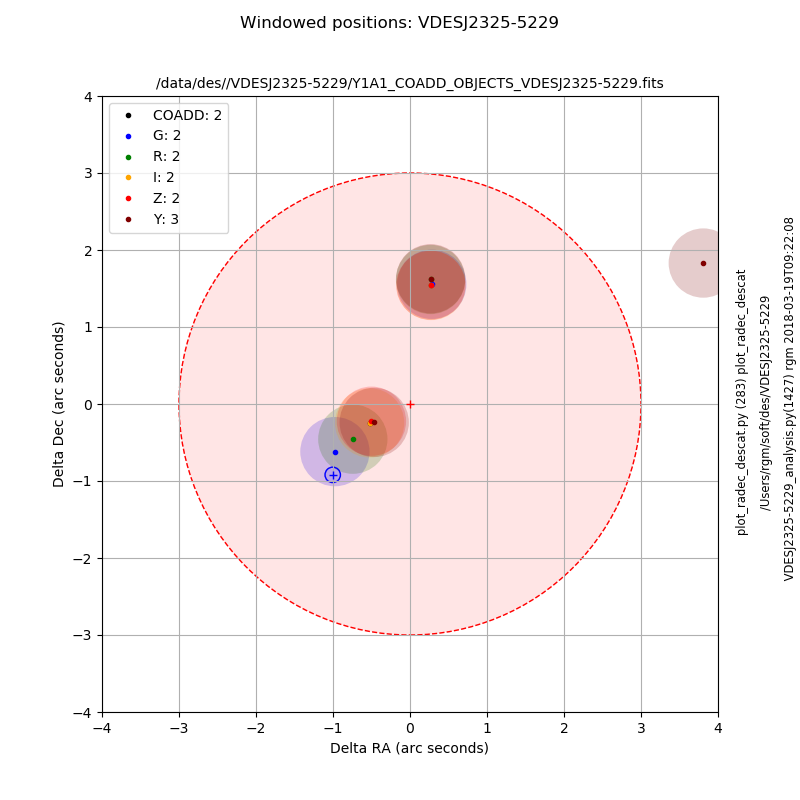
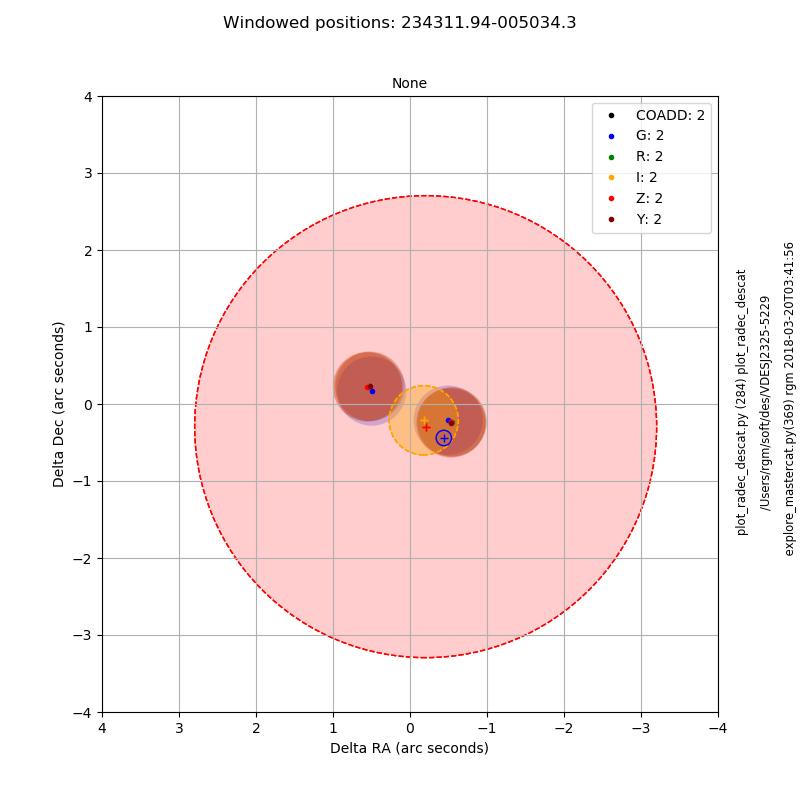
compute average RA, Dec for the DES source and use for the plot centre instead of the mastercat position 	modified:   VDESJ2325-5229_COADD_radec.png 	modified:   explore_mastercat.py 	modified:   plot_radec_descat.py 	modified:   plot_radec_gaiacat.py

diff --git a/VDESJ2325-5229/explore_mastercat.py b/VDESJ2325-5229/explore_mastercat.py
@@ -48,6 +48,7 @@ from librgm.xmatch import xmatch_selfcheck
 
 
 from plot_radec_descat import *
+from plot_radec_vhscat import *
 from plot_radec_wisecat import *
 from plot_radec_gaiacat import *
 
@@ -98,6 +99,14 @@ def getargs():
     parser.set_defaults(wise=False)
     parser.add_argument("--wise", action='store_true',
         help="wise overplot option")
+
+    parser.add_argument("--invert_xaxis", action='store_true',
+                        default=False,
+                        help="invert x-axis")
+
+    parser.add_argument("--invert_yaxis", action='store_true',
+                        default=False,
+                        help="invert y-axis")
 
     parser.set_defaults(cutout=False)
     parser.add_argument("--cutout", action='store_true',
@@ -255,7 +264,7 @@ if __name__ == "__main__":
     descat.info('stats')
 
     wisedata = descat
-    vhsdata = None
+    vhsdata = descat
 
     path_gaiacat = config.get('MASTERCAT', 'path_gaiacat')
     filename_gaiacat = config.get('MASTERCAT', 'filename_gaiacat')
@@ -270,6 +279,9 @@ if __name__ == "__main__":
     colnames_radec1 = ['RA', 'DEC']
     colnames_radec2 = ['RA', 'Dec']
 
+    # I do not use the xmatch at the moment since I just trawl through the
+    # mastercat sources and descat sources outside the regions get ignored
+    # at the plot stage
     if debug:
         help(xmatch_cat)
     print("Elapsed time %.3f seconds" % (time.time() - t0))
@@ -289,8 +301,13 @@ if __name__ == "__main__":
     numpoints = len(dr)
     print(len(dr), dr_median, dr_mad_std)
 
+    itest = np.unique(idxmatch)
+    print('Unique idxmatch:', len(itest), len(idxmatch))
+
     itest = np.unique(table1['row_id'])
-    print(len(itest))
+    print('Unique row_id:', len(itest))
+
+
     for icount, id in enumerate(itest):
         print(icount + 1, id,
               mastercat['RA'][id], mastercat['Dec'][id])
@@ -303,6 +320,14 @@ if __name__ == "__main__":
                     unit=u.deg).to_string(unit=u.degree,
                     precision=precision, sep=' ',
                     pad=True, alwayssign=True))
+
+        imatch = (idxmatch == id)
+        print(icount + 1, id, len(imatch), len(descat[imatch]))
+        print(np.average(descat['RA'][imatch]))
+        print(np.average(descat['DEC'][imatch]))
+
+    if debug:
+        key = raw_input("Enter any key to continue: ")
 
 
     showplot = True
@@ -321,8 +346,16 @@ if __name__ == "__main__":
                            precision=1, sep='',
                            pad=True, alwayssign=True)
 
-        # keep plt handle for overlays
+        imatch = (idxmatch == id)
+        print(icount + 1, id, len(imatch), len(descat[imatch]))
+
+        RA_average = np.average(descat['RA'][imatch])
+        DEC_average = np.average(descat['DEC'][imatch])
+
         radec_centre = (mastercat['RA'][id], mastercat['Dec'][id])
+        radec_centre = (RA_average, DEC_average)
+
+        # Note we keep plt handle for overlays; this could cause problems
         plt = plot_radec_descat(data=data,
                                 radius=0.45,
                                 source=sourceName,
@@ -334,6 +367,9 @@ if __name__ == "__main__":
                                 singleEpoch=False,
                                 showplot=False,
                                 debug=debug)
+
+        if args.invert_xaxis:
+            plt.gca().invert_xaxis()
 
         if wisedata is not None:
             colnames_radec = ['RA_WISE', 'DEC_WISE']
@@ -347,10 +383,9 @@ if __name__ == "__main__":
                                      plt=plt,
                                      debug=debug)
 
-
         if vhsdata is not None:
             colnames_radec = ['RA_VHS', 'DEC_VHS']
-            plt = plot_radec_descat(data=vhsdata, radius=0.45,
+            plt = plot_radec_vhscat(data=vhsdata, radius=0.45,
                                     source=sourceName,
                                     radec_centre=radec_centre,
                                     colnames_radec=colnames_radec,
@@ -371,5 +406,14 @@ if __name__ == "__main__":
                                     showplot=False,
                                     plt=plt,
                                     debug=debug)
+
+
+        if args.invert_xaxis:
+            plt.gca().invert_xaxis()
+
+        plotfile = source + '_COADD_radec.png'
+        plt.savefig(plotfile)
+        print('Saving: ', plotfile)
+
 
         plt.show()

diff --git a/VDESJ2325-5229/plot_radec_descat.py b/VDESJ2325-5229/plot_radec_descat.py
@@ -57,6 +57,7 @@ def des_parameter_analysis(data=None, index=None):
 def plot_radec_descat(data=None, release='Y1A1',
                       source=None,
                       radius = 0.45, alpha=0.2,
+                      colnames_radec=None,
                       radec_centre=None,
                       xrange = [-2.5, 2.5],
                       yrange = [-2.5, 2.5],
@@ -79,7 +80,7 @@ def plot_radec_descat(data=None, release='Y1A1',
     import matplotlib.pyplot as plt
     from matplotlib.patches import Circle, Ellipse
 
-    colors = ['blue','green','orange','red', 'maroon']
+    colors = ['blue', 'green', 'orange', 'red', 'maroon']
 
     infile = None
     if 'filename' in data.meta:

diff --git a/VDESJ2325-5229/plot_radec_gaiacat.py b/VDESJ2325-5229/plot_radec_gaiacat.py
@@ -128,7 +128,6 @@ def plot_radec_gaiacat(data=None,
     #plt.clf()
     print('Saving: ', plotfile)
 
-
     if showplot:
         plt.show()
 
